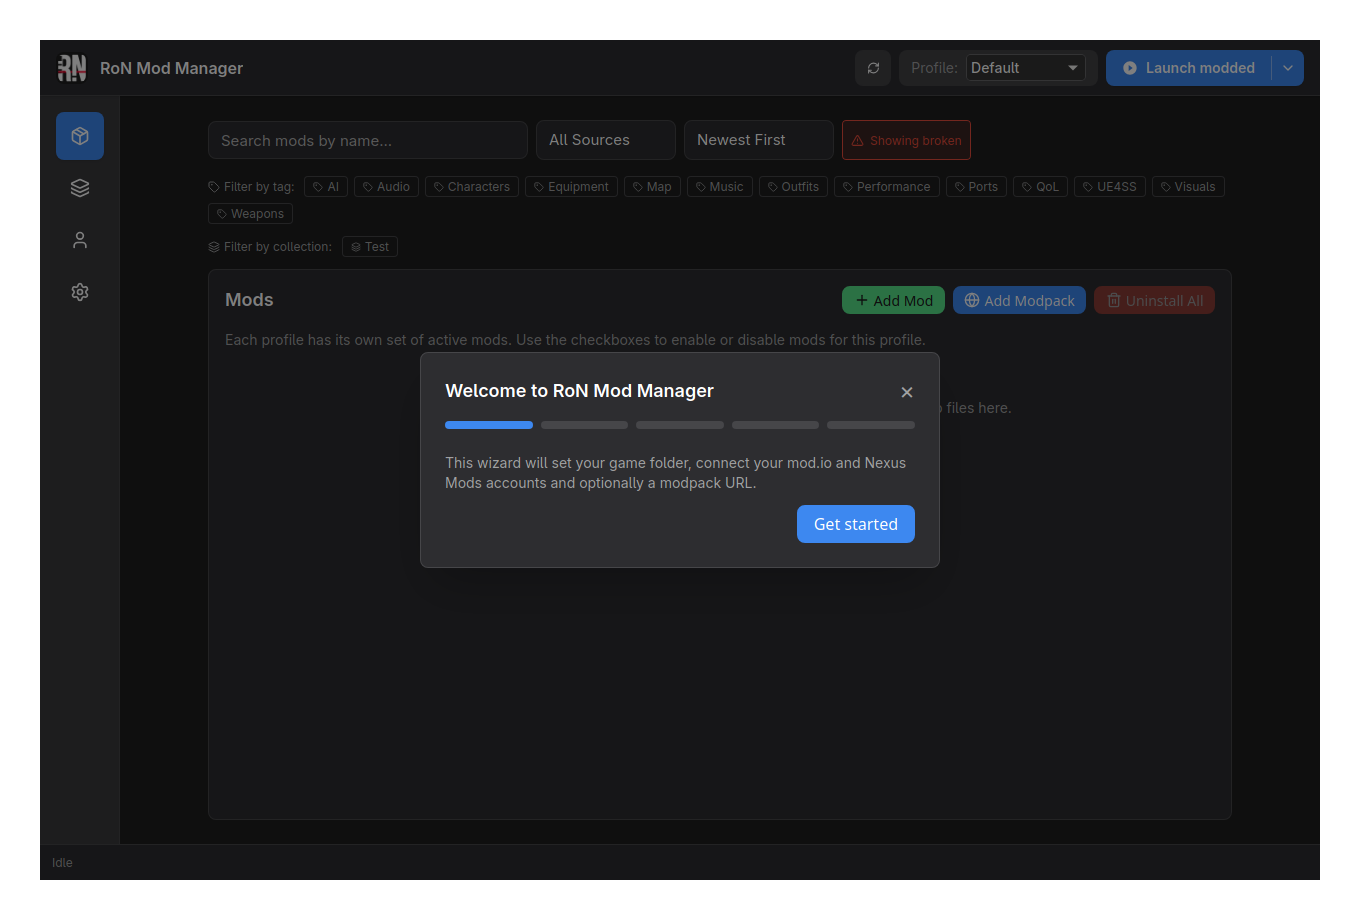
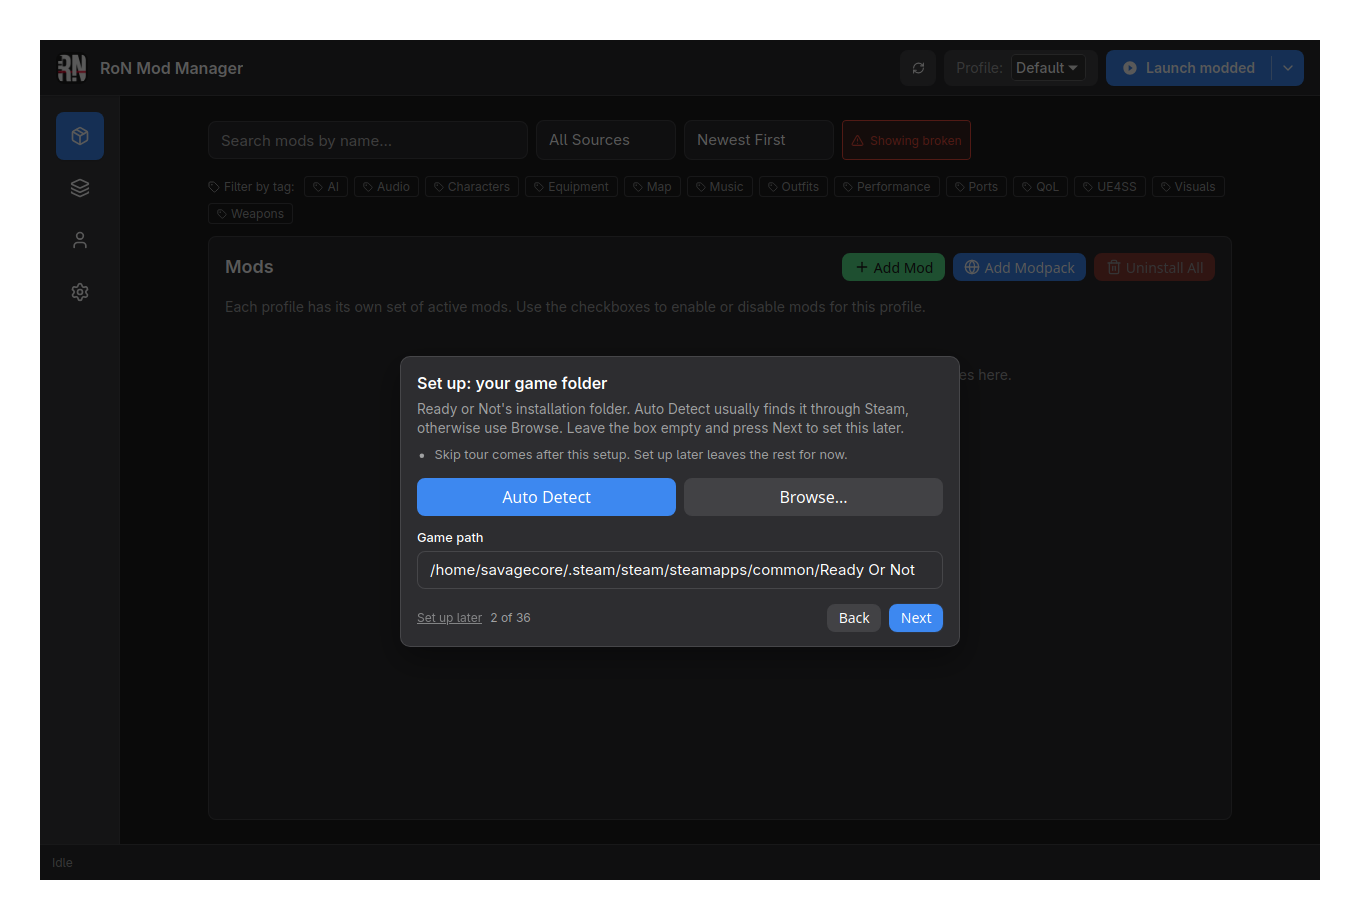
Refresh the first-run setup screenshots

diff --git a/tests/unit/screenshotPlan.test.ts b/tests/unit/screenshotPlan.test.ts
@@ -123,6 +123,20 @@ describe("plan: generic sources", () => {
     void pages;
   });
 
+  it("tour copy change keeps the wizard shot", () => {
+    // The setup steps and the tour card are what the wizard shot shows, so a
+    // change there has to schedule it.
+    const { wizard, pages } = plan({
+      changedFiles: ["src/lib/tour/steps.ts"],
+    });
+    for (const t of THEMES) {
+      expect(wizard[t].capture).toBe(true);
+      // The tour only renders over the app: no page shot is affected.
+      expect(pages[t].mods.capture).toBe(false);
+      expect(pages[t].settings.capture).toBe(false);
+    }
+  });
+
   it("screenshot outputs never trigger themselves", () => {
     const { planned } = plan({
       changedFiles: ["docs/screenshots/light/mods.png"],

diff --git a/docs/screenshots/README.md b/docs/screenshots/README.md
@@ -1,6 +1,8 @@
 # Screenshots
 
-## Setup Wizard
+## First-run setup
+
+The guided tour's setup cards, which is how a first launch is set up.
 
 | Light                               | Dark                              |
 | ----------------------------------- | --------------------------------- |
